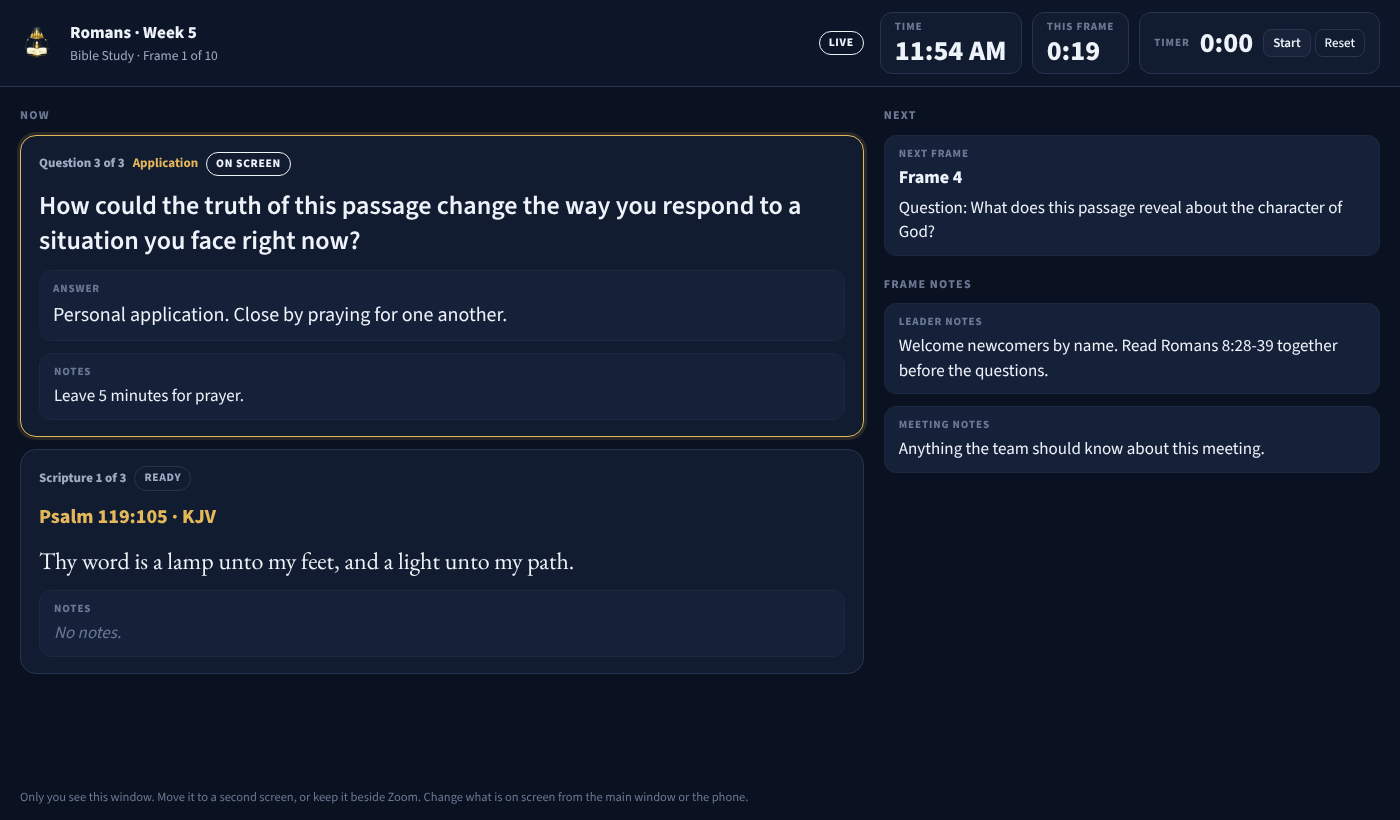
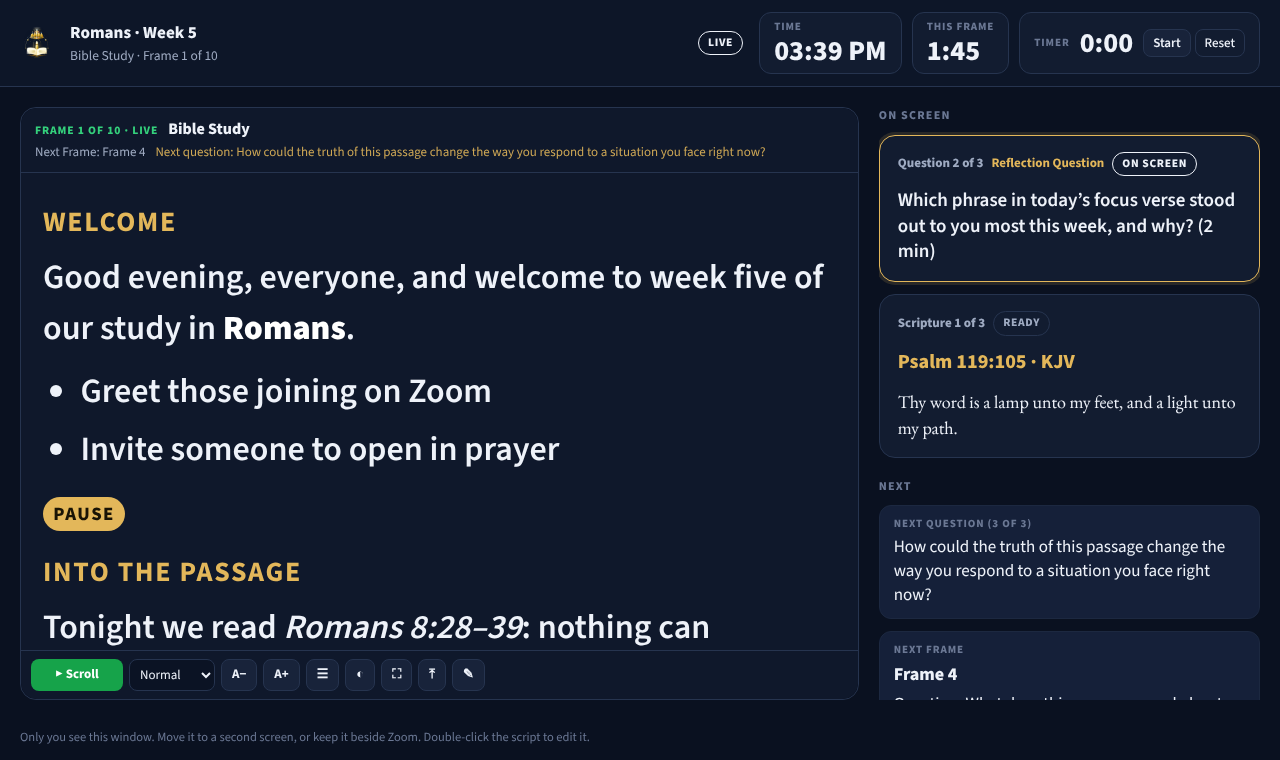
6.7: Teleprompter screenshots; lighter focus mark on the script
Claude-Session: https://claude.ai/code/session_011UFBHaauXC3KrAhyh7CCoG

diff --git a/app/css/teleprompter.css b/app/css/teleprompter.css
@@ -11,7 +11,7 @@
 .tp-next{flex:none;max-width:45%}
 .tp-up{color:var(--tp-gold);opacity:.9}
 .tp-scroll{flex:1 1 auto;min-height:0;overflow:auto;padding:18px 22px;scroll-behavior:auto;outline:none;overscroll-behavior:contain;-webkit-overflow-scrolling:touch}
-.tp-scroll:focus-visible{box-shadow:inset 0 0 0 2px var(--accent,#4c8dff)}
+.tp-scroll:focus-visible{box-shadow:inset 3px 0 0 var(--accent,#4c8dff)}
 .tp-text{font-size:var(--tp-size);line-height:var(--tp-line);font-weight:600;max-width:44em;margin:0 auto;overflow-wrap:break-word}
 .tp-text p{margin:0 0 .35em}
 .tp-text h3{margin:.4em 0 .3em;font-size:.82em;letter-spacing:.06em;text-transform:uppercase;color:var(--tp-gold)}

diff --git a/app/css/theme.css b/app/css/theme.css
@@ -1220,7 +1220,7 @@ body.tp-dock-bottom .tpd-head .tpd-row:first-child{order:2;flex:none}
 body.tp-open .tpd:not([hidden]){animation:kc-fade .16s ease-out}
 .tp-text{transition:font-size .12s ease}
 .pal-row{transition:background-color .08s linear}
-:where(.tpd,.pal,.tp) :focus-visible{outline:2px solid var(--accent,#4c8dff);outline-offset:2px}
+:where(.tpd,.pal,.tp) :focus-visible:not(.tp-scroll){outline:2px solid var(--accent,#4c8dff);outline-offset:2px}
 @media (prefers-reduced-motion:reduce){
   .ef-float,.ws-menu,.ef-menu,.insp-body .ip,body.tp-open .tpd{animation:none}
   .ef-input,.scene-item.picked,.layer-item.picked,.tp-text,.pal-row{transition:none}
